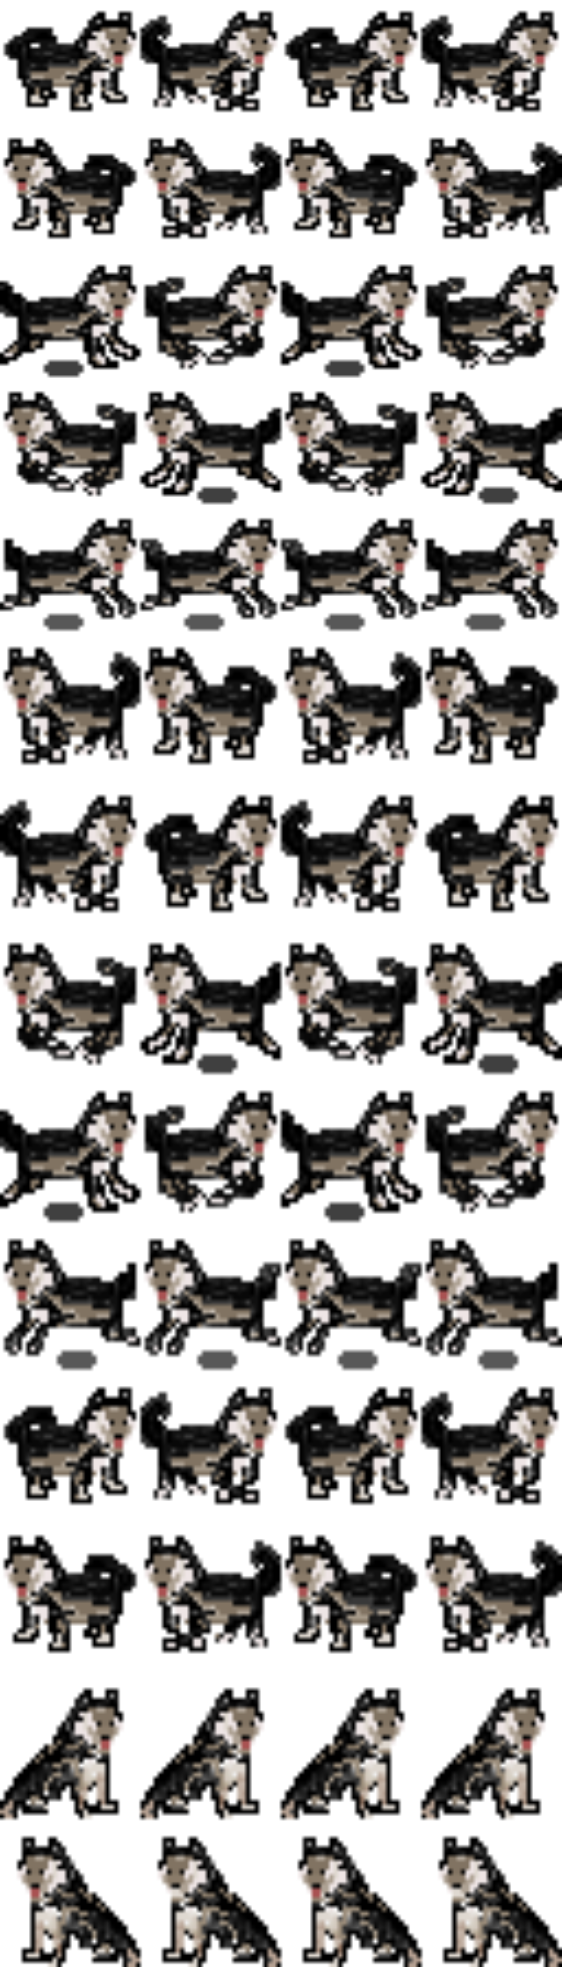
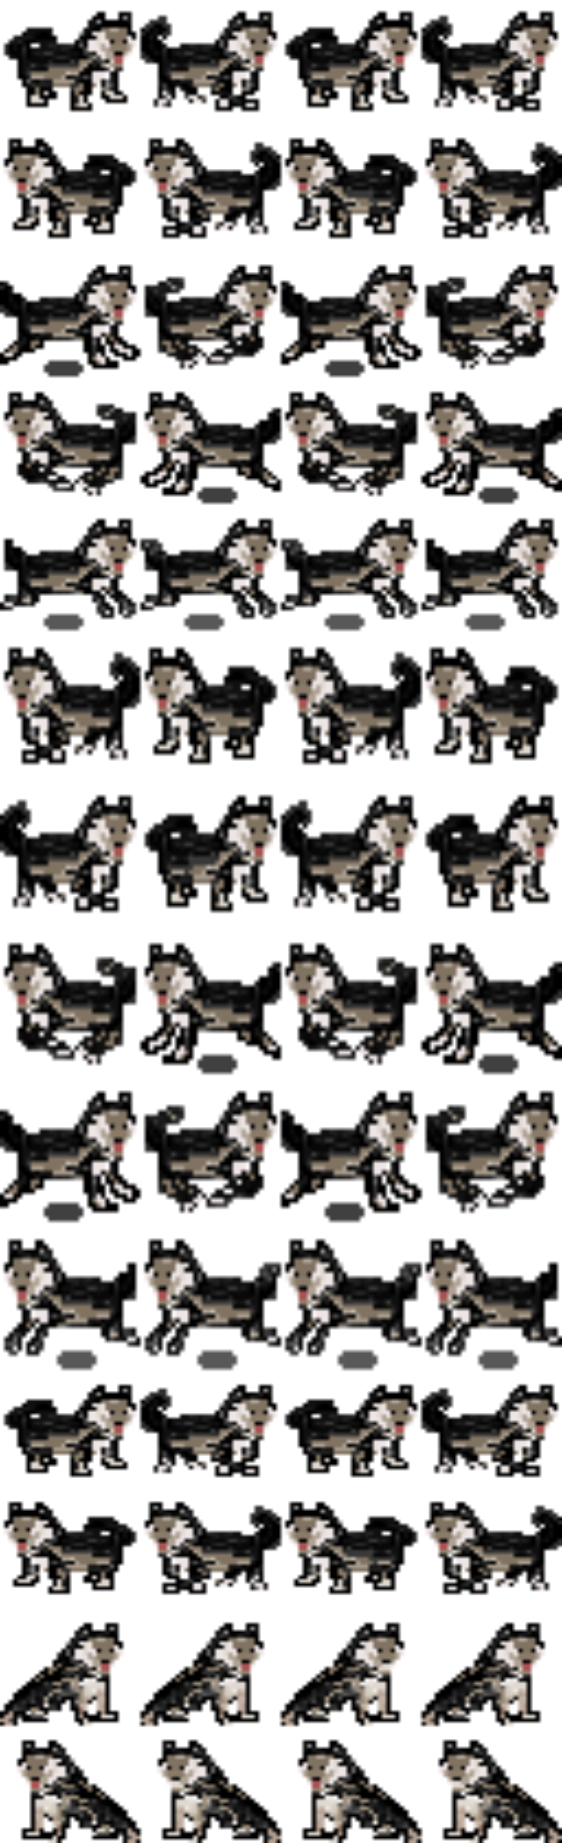
made sitting cleaner

diff --git a/src/index.js b/src/index.js
@@ -136,13 +136,13 @@ function moveThisLad(){
         player.frameY = 12;
         player.frameX = 0;
         player.moving = false;   
-        player.h = 141;
+        player.h = 134;
     }
      if(keys[40] && player.y === 575 && player.faceLeft){
         player.frameY = 13;
         player.frameX = 0;
         player.moving = false;   
-        player.h = 141;
+        player.h = 134;
     }
 
 }
